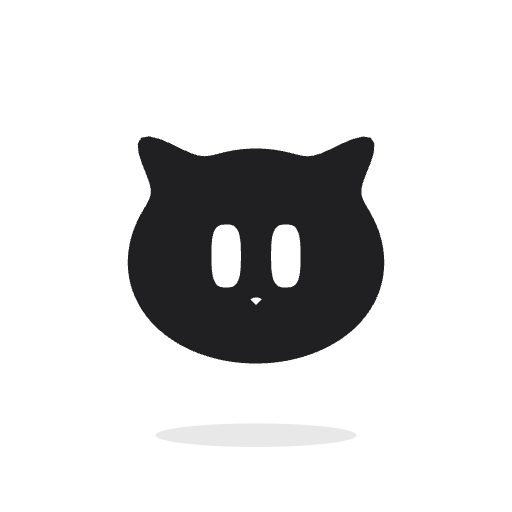
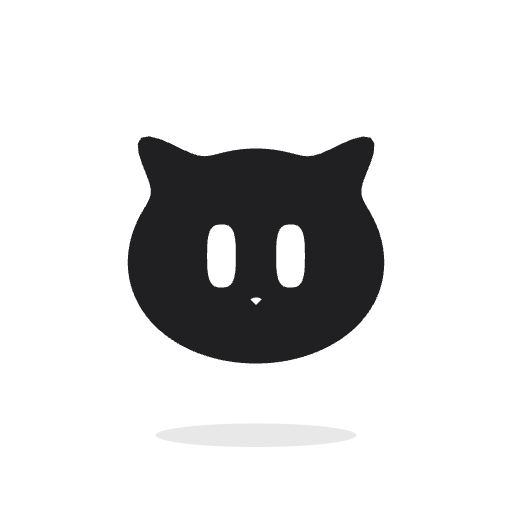
fix(assets): slightly widen cat eye spacing

Changed region(s): [[0.5312, 0.4375, 0.5938, 0.5625], [0.4062, 0.4375, 0.4688, 0.5625]]

diff --git a/assets/mascots/cat/motion.js b/assets/mascots/cat/motion.js
@@ -31,7 +31,7 @@ function eyePoints(kind){const pts=[];for(let i=0;i<48;i++){const a=i/48*Math.PI
 const eyeShapes=[0,1,2,3].map(eyePoints);
 function paint(){const s=Object.fromEntries(Object.entries(springs).map(([k,v])=>[k,v.x]));const squash=clamp(s.squash,.6,1.5),m=clamp(s.mood,0,3),lo=Math.floor(m),hi=Math.min(3,lo+1),f=m-lo;
 for(const cat of cats){cat.head.setAttribute('transform',`translate(${s.x} ${s.y}) rotate(${s.roll}) scale(${1/squash} ${squash})`);cat.body.setAttribute('d',silhouette(s));cat.clip.setAttribute('d',silhouette(s));cat.shadow.setAttribute('rx',String(clamp(51+s.y*.25,24,70)));cat.shadow.style.opacity=String(clamp(.1+s.y*.001,.03,.18));
-cat.eyes.forEach((el,i)=>{const side=i===0?-1:1,angle=side*.36+s.yaw,depth=Math.cos(angle),rawX=Math.sin(angle)*43+s.gx*.25,rawY=s.gy*.6;const points=eyeShapes[lo].map((p,j)=>{let px=p[0]*(1-f)+eyeShapes[hi][j][0]*f,py=p[1]*(1-f)+eyeShapes[hi][j][1]*f;return[px*s.wide*clamp(depth,.02,1.1),py*clamp(s.lid,.035,1.3)*s.wide]});const rad=clamp(side*wrap(s.yaw)*7,-8,8)*Math.PI/180,rotated=points.map(p=>[p[0]*Math.cos(rad)-p[1]*Math.sin(rad),p[0]*Math.sin(rad)+p[1]*Math.cos(rad)]),rx=Math.max(...rotated.map(p=>Math.abs(p[0]))),ry=Math.max(...rotated.map(p=>Math.abs(p[1]))),x=clamp(rawX,-46+rx,46-rx),y=clamp(rawY,-27+ry,27-ry);el.setAttribute('d',path(rotated));el.setAttribute('transform',`translate(${x} ${y})`);el.style.opacity=String(clamp(depth*5,0,1));});cat.nose.setAttribute('transform',`translate(${Math.sin(s.yaw)*39+s.gx*.15} ${s.gy*.45})`);cat.nose.style.opacity=String(clamp(Math.cos(s.yaw)*4,0,1));}
+cat.eyes.forEach((el,i)=>{const side=i===0?-1:1,angle=side*.42+s.yaw,depth=Math.cos(angle),rawX=Math.sin(angle)*43+s.gx*.25,rawY=s.gy*.6;const points=eyeShapes[lo].map((p,j)=>{let px=p[0]*(1-f)+eyeShapes[hi][j][0]*f,py=p[1]*(1-f)+eyeShapes[hi][j][1]*f;return[px*s.wide*clamp(depth,.02,1.1),py*clamp(s.lid,.035,1.3)*s.wide]});const rad=clamp(side*wrap(s.yaw)*7,-8,8)*Math.PI/180,rotated=points.map(p=>[p[0]*Math.cos(rad)-p[1]*Math.sin(rad),p[0]*Math.sin(rad)+p[1]*Math.cos(rad)]),rx=Math.max(...rotated.map(p=>Math.abs(p[0]))),ry=Math.max(...rotated.map(p=>Math.abs(p[1]))),x=clamp(rawX,-46+rx,46-rx),y=clamp(rawY,-27+ry,27-ry);el.setAttribute('d',path(rotated));el.setAttribute('transform',`translate(${x} ${y})`);el.style.opacity=String(clamp(depth*5,0,1));});cat.nose.setAttribute('transform',`translate(${Math.sin(s.yaw)*39+s.gx*.15} ${s.gy*.45})`);cat.nose.style.opacity=String(clamp(Math.cos(s.yaw)*4,0,1));}
 frames++;}
 function tick(now){raf=0;if(paused||document.hidden)return;const dt=clamp((now-last)/1000,0,.05);last=now;time+=dt;if($('#auto').checked&&time>cycleAt){setMode(modes[(modes.indexOf(mode)+1)%modes.length]);cycleAt=time+3.8}step(dt,targets(time));paint();if(!reduceActive()&&!raf)raf=requestAnimationFrame(tick)}
 const pointer={inside:false,x:0,y:0},stage=$('#stage');
